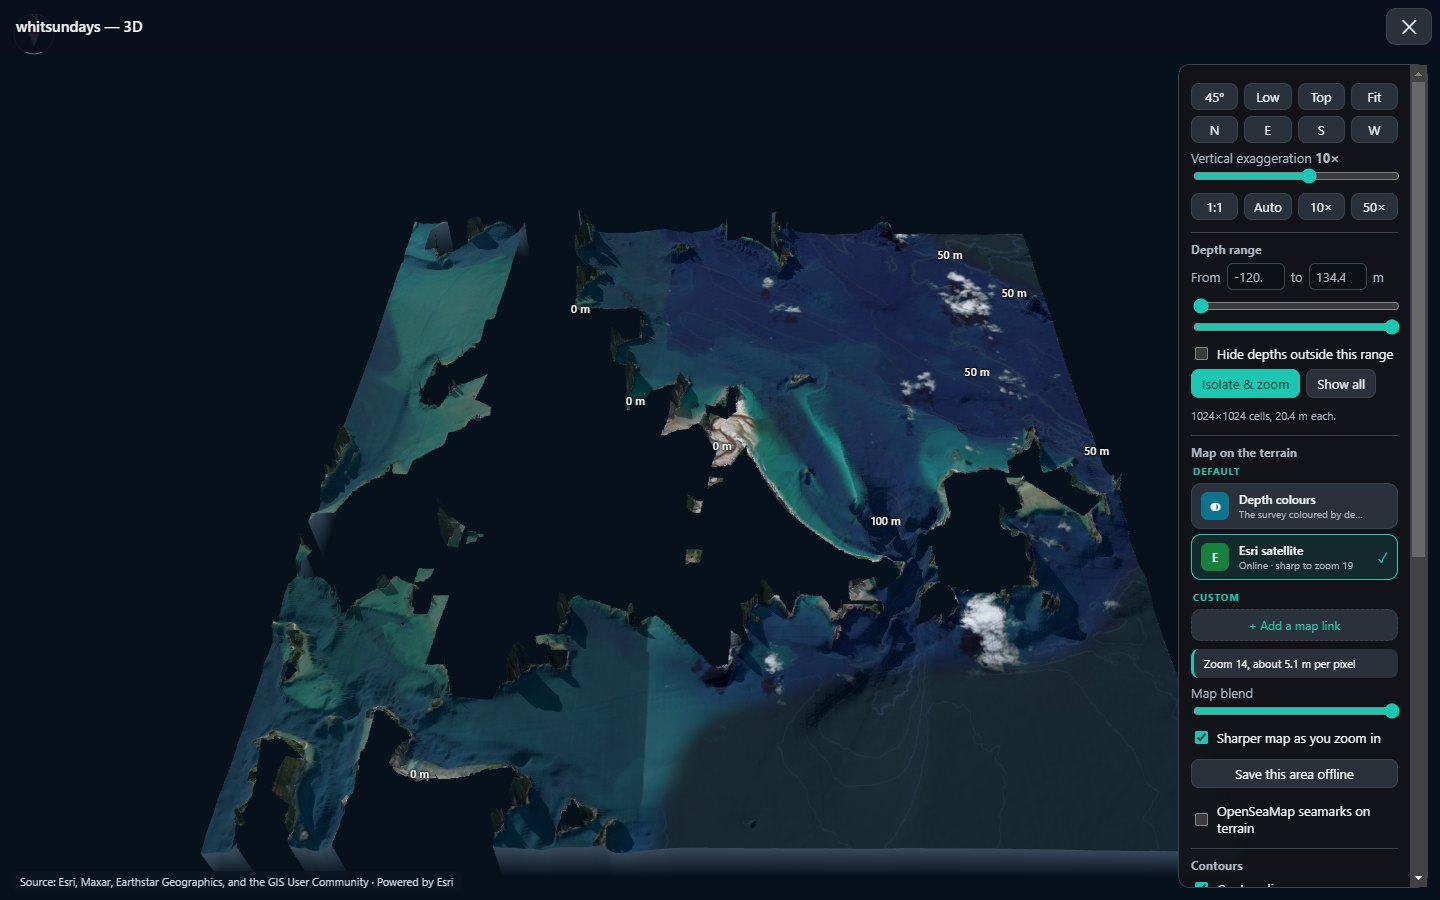
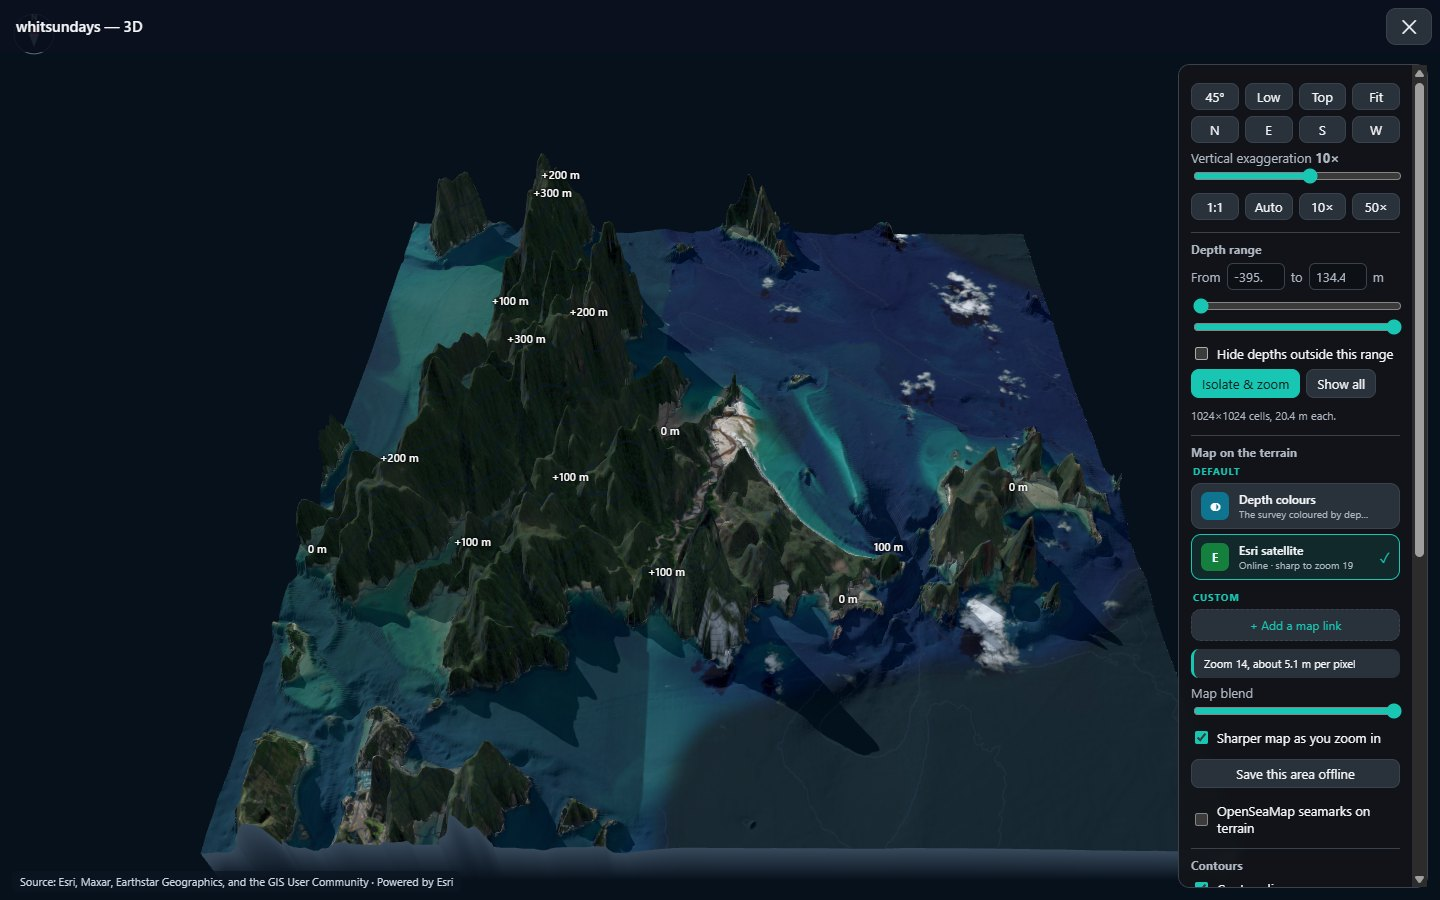
New 3D screenshot with island heights from GMRT
The Whitsundays 3D view now shows the islands, with land heights from GMRT laid under the IMAS depths. The README explains how.

diff --git a/README.md b/README.md
@@ -92,6 +92,16 @@ The Whitsundays, built with BathyPicker and opened in
 [SeaBathy Desktop](https://github.com/SeaBathy/seabathy-desktop): coloured by depth, then in
 3D with satellite imagery draped over the seabed at Whitehaven Beach and Hill Inlet.
 
+IMAS maps the seafloor only, so land in the file is empty. For the 3D picture, island
+heights from [GMRT](https://www.gmrt.org) (free worldwide elevation, CC BY 4.0) were laid
+under the IMAS depths with GDAL, so the satellite drapes over the hills too:
+
+```bash
+gdalwarp -te <west> <south> <east> <north> -tr <IMAS pixel size> gmrt.tif gmrt_grid.tif
+gdalbuildvrt stack.vrt gmrt_grid.tif imas.tif      # IMAS on top wherever it has data
+gdal_translate stack.vrt with-land.tif
+```
+
 <p align="center">
   <img src="screenshots/in-seabathy.jpg" width="420" alt="The GeoTIFF in SeaBathy's chart, coloured by depth">
   <img src="screenshots/in-seabathy-3d.jpg" width="420" alt="The Whitsundays in SeaBathy's 3D view with satellite imagery">
